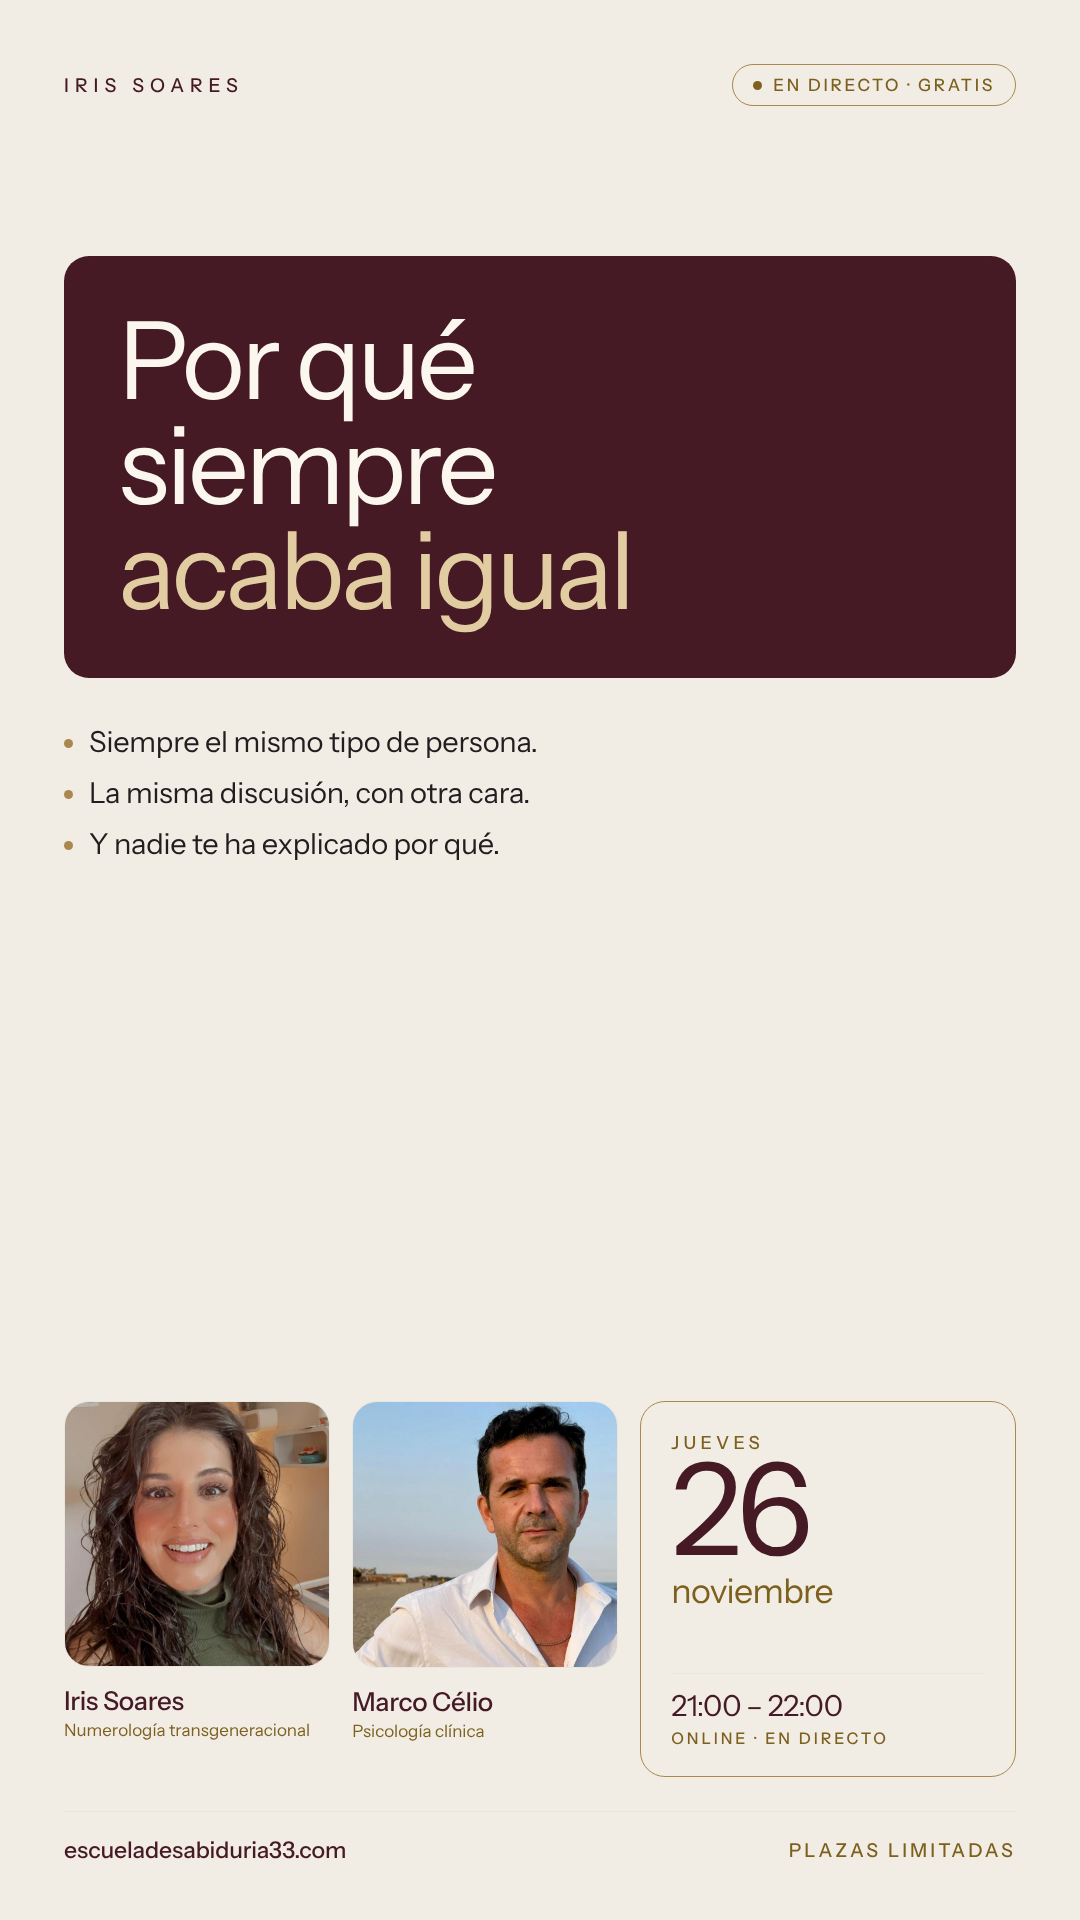
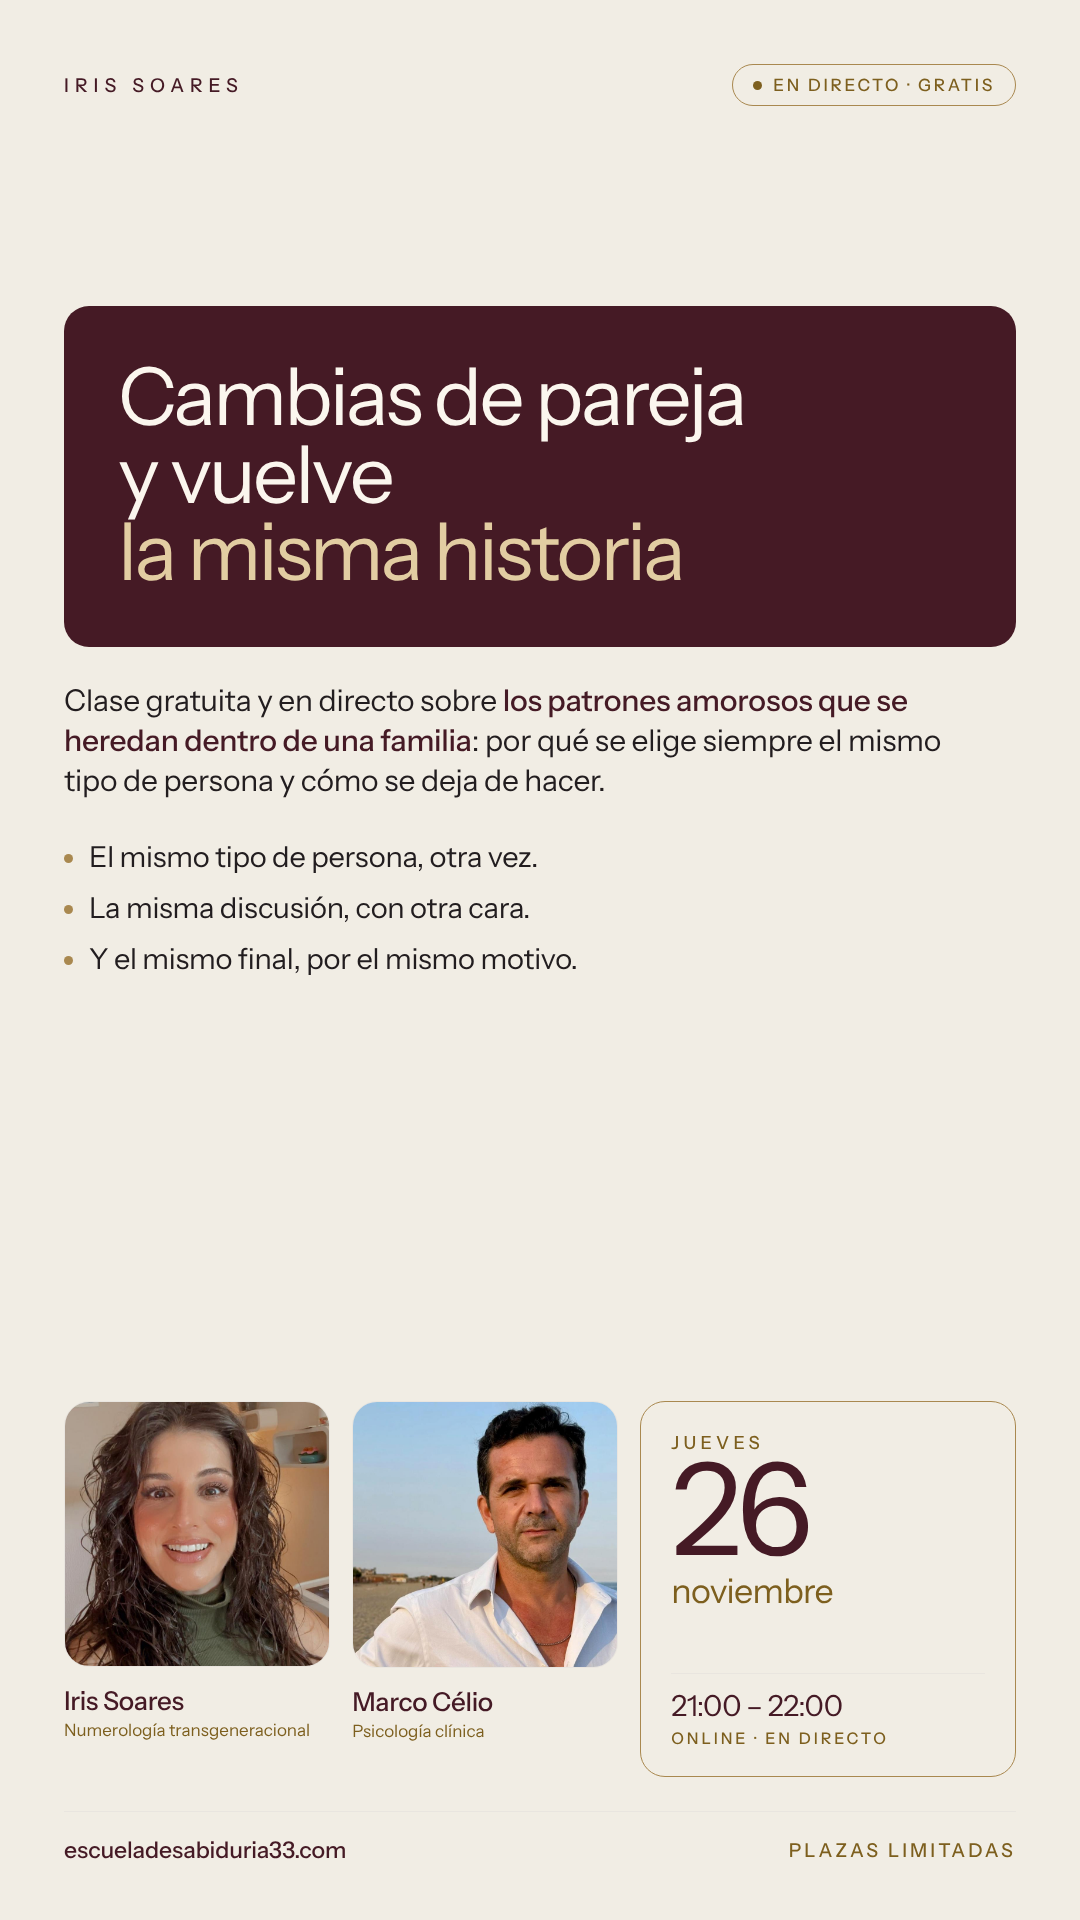
El titular, escrito entero
Gerson: «extiende bien la frase, que se pueda entender completamente,
cualquier persona pueda comprenderlo, pero no utilices frases genéricas».

«Por qué siempre acaba igual» solo se entiende si ya sabes de qué va. A
quien ve el anuncio por primera vez no le dice QUÉ acaba igual, y además
es una frase hecha. Ahora:

  «Cambias de pareja y vuelve la misma historia»

Eso es una escena, no una etiqueta: se entiende sin contexto y señala al
problema concreto. Y la otra pieza pasa de «Trae tres fechas de
nacimiento» —que tampoco dice para qué— a «Con tres fechas de nacimiento
se ve el patrón que se repite».

Debajo del marco entra una línea que dice QUÉ es esto, que antes faltaba:
el cartel enseñaba un dolor y no decía qué se vende. Ahora dice clase
gratuita, en directo, sobre los patrones amorosos que se heredan dentro
de una familia, por qué se elige siempre el mismo tipo de persona y cómo
se deja de hacer.

Los golpes dejan de ser genéricos: «y nadie te ha explicado por qué» pasa
a «y el mismo final, por el mismo motivo».

Claude-Session: https://claude.ai/code/session_011wnQTDoRegjVJUx6mq1v5J

Changed region(s): [[0.0611, 0.125, 0.9472, 0.5]]

diff --git a/apps/web/public/anuncios/_plantilla-anuncios.html b/apps/web/public/anuncios/_plantilla-anuncios.html
@@ -73,13 +73,20 @@
     border-radius: var(--radio-suave);
   }
   .titular {
-    font-size: 108px; font-weight: var(--peso-fino);
+    font-size: 80px; font-weight: var(--peso-fino);
     line-height: .97; letter-spacing: -.035em;
   }
-  .titular.largo { font-size: 94px; }
+  .titular.largo { font-size: 72px; }
   .titular b { font-weight: var(--peso-fino); color: var(--oro-luz); }
 
-  .lista { margin-top: 46px; display: flex; flex-direction: column; gap: 16px; }
+  .explica {
+    margin-top: 34px;
+    font-size: 30px; font-weight: var(--peso-texto); line-height: 1.34;
+    letter-spacing: -.008em; color: var(--tinta);
+    max-width: 880px;
+  }
+  .explica b { font-weight: var(--peso-medio); color: var(--vino); }
+  .lista { margin-top: 38px; display: flex; flex-direction: column; gap: 16px; }
   .lista li {
     list-style: none; display: flex; align-items: baseline; gap: 16px;
     font-size: 29px; font-weight: var(--peso-texto); letter-spacing: -.008em; color: var(--tinta);
@@ -153,12 +160,13 @@
     <span class="pastilla"><i class="brasa"></i>En directo · Gratis</span>
   </div>
   <div class="marco-frase">
-    <h1 class="titular">Por qué<br>siempre<br><b>acaba igual</b></h1>
+    <h1 class="titular">Cambias de pareja<br>y vuelve<br><b>la misma historia</b></h1>
   </div>
+  <p class="explica">Clase gratuita y en directo sobre <b>los patrones amorosos que se heredan dentro de una familia</b>: por qué se elige siempre el mismo tipo de persona y cómo se deja de hacer.</p>
   <ul class="lista">
-    <li>Siempre el mismo tipo de persona.</li>
+    <li>El mismo tipo de persona, otra vez.</li>
     <li>La misma discusión, con otra cara.</li>
-    <li>Y nadie te ha explicado por qué.</li>
+    <li>Y el mismo final, por el mismo motivo.</li>
   </ul>
   <div class="franja">
     <div>
@@ -194,8 +202,9 @@
     <span class="pastilla"><i class="brasa"></i>En directo · Gratis</span>
   </div>
   <div class="marco-frase">
-    <h1 class="titular largo">Trae tres<br><b>fechas de nacimiento</b></h1>
+    <h1 class="titular largo">Con tres fechas<br>de nacimiento se ve<br><b>el patrón que se repite</b></h1>
   </div>
+  <p class="explica">Clase gratuita y en directo. Trae la tuya, la de tu madre y la de tu pareja: <b>en una hora sales viendo qué se repite en tu familia</b> y por qué.</p>
   <ul class="lista">
     <li>La edad a la que cada una se emparejó.</li>
     <li>El tipo de persona que eligió.</li>
@@ -234,13 +243,14 @@
     <span class="marca">Iris Soares</span>
     <span class="pastilla"><i class="brasa"></i>En directo · Gratis</span>
   </div>
-  <div class="marco-frase" style="margin-top:150px">
-    <h1 class="titular">Por qué<br>siempre<br><b>acaba igual</b></h1>
+  <div class="marco-frase" style="margin-top:200px">
+    <h1 class="titular">Cambias de pareja<br>y vuelve<br><b>la misma historia</b></h1>
   </div>
+  <p class="explica">Clase gratuita y en directo sobre <b>los patrones amorosos que se heredan dentro de una familia</b>: por qué se elige siempre el mismo tipo de persona y cómo se deja de hacer.</p>
   <ul class="lista">
-    <li>Siempre el mismo tipo de persona.</li>
+    <li>El mismo tipo de persona, otra vez.</li>
     <li>La misma discusión, con otra cara.</li>
-    <li>Y nadie te ha explicado por qué.</li>
+    <li>Y el mismo final, por el mismo motivo.</li>
   </ul>
   <div class="franja">
     <div>
